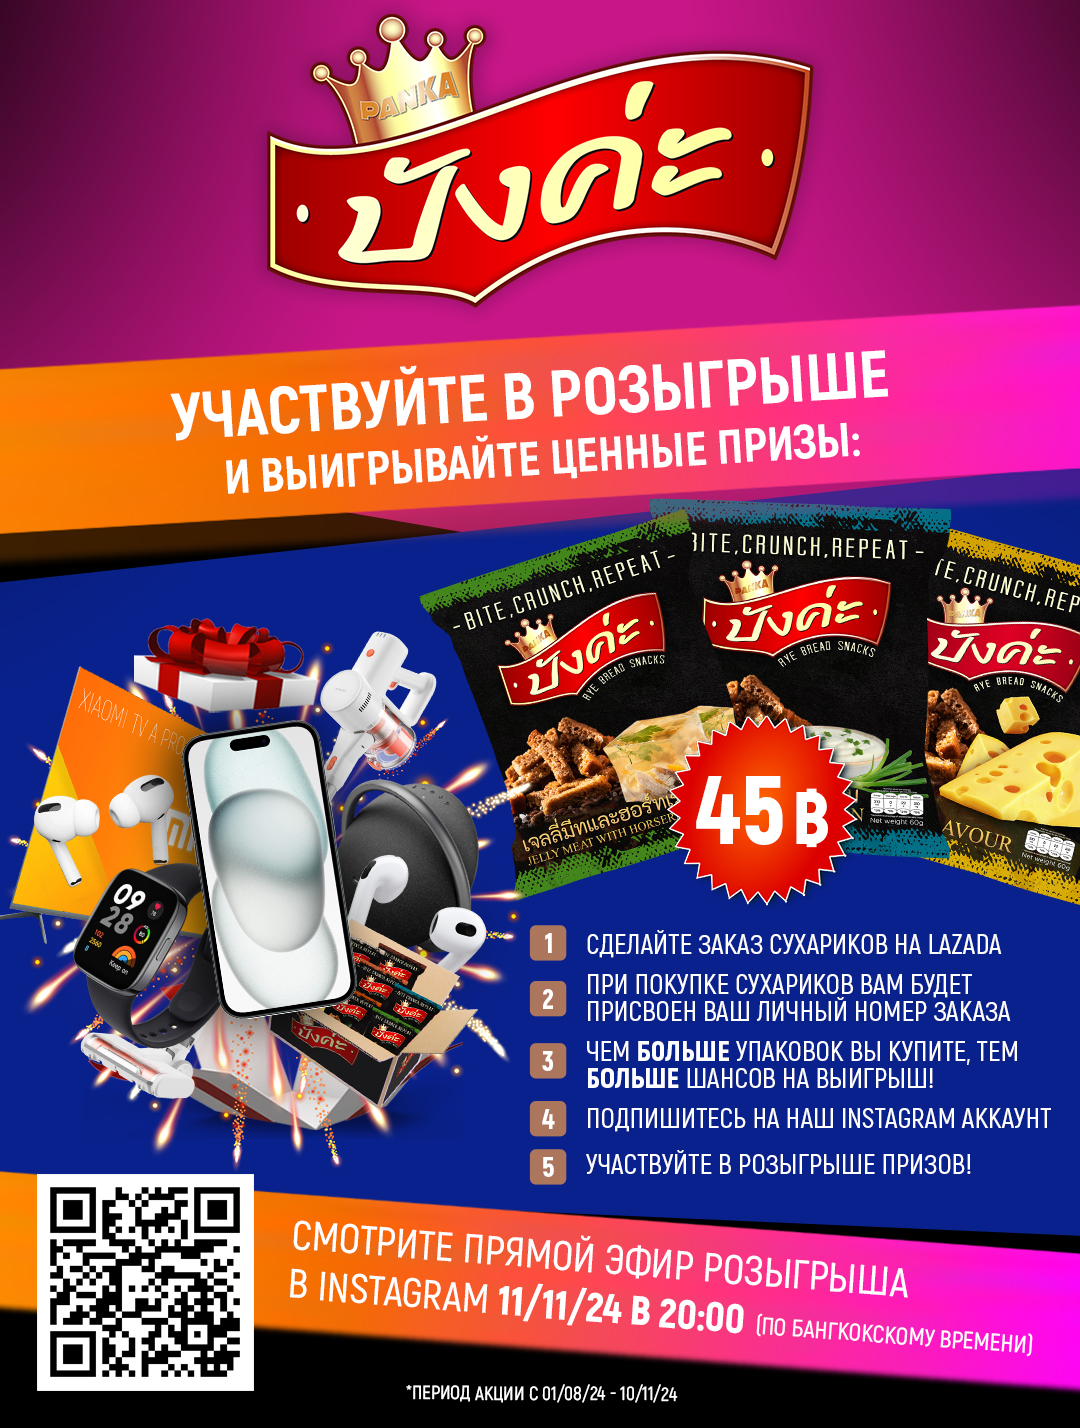
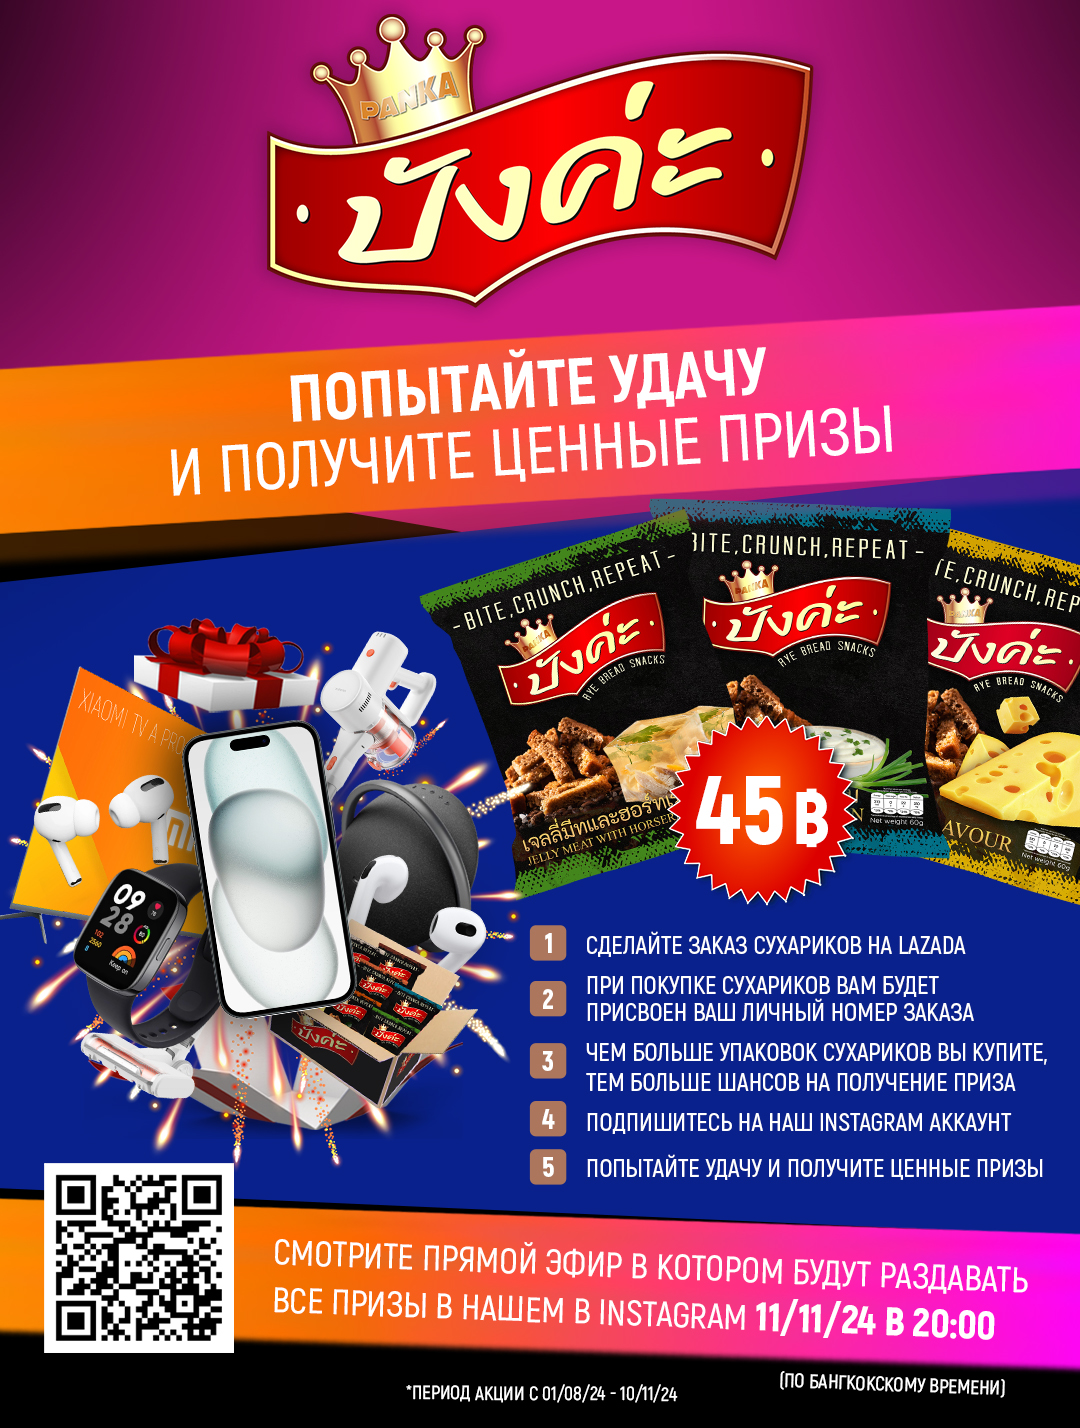
Удаляем намёки на лотереи

Changed region(s): [[0.0, 0.6471, 1.0, 0.986], [0.1528, 0.2465, 0.825, 0.3697]]

diff --git a/resources/views/lazada-lottery.blade.php b/resources/views/lazada-lottery.blade.php
@@ -32,7 +32,7 @@
                 </a>
             </span>
         </p>
-        <p class="main-top-h">Panka Lottery 11/11</p>
+        <p class="main-top-h">Panka 11/11</p>
     </div>
     <div class="main-table">
         <table class="w-full table-auto rounded-md bg-white text-black">
